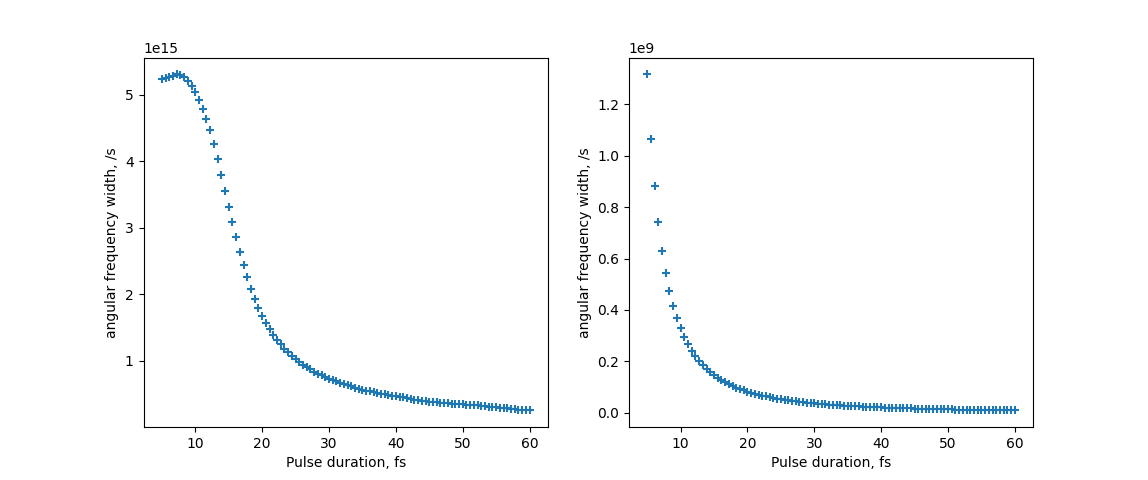
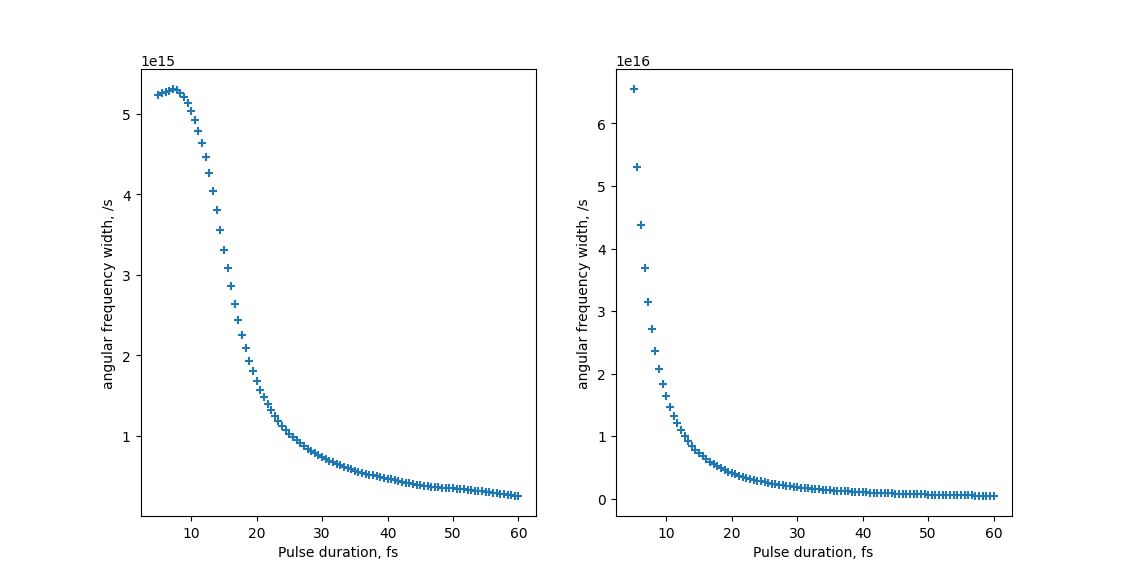
Added path to test files

diff --git a/BO/tests/test_gradient_and_ramp.py b/BO/tests/test_gradient_and_ramp.py
@@ -1,10 +1,3 @@
-# -*- coding: utf-8 -*-
-"""
-Created on Thu Jan 27 21:53:02 2022
-
-@author: iammo
-"""
-
 #imports
 import numpy as np
 from bayes_opt import BayesianOptimization
@@ -12,14 +5,17 @@ import matplotlib.pyplot as plt
 
 #now import the code form the other files
 import sys
-sys.path.append('D:\\MSci\\GitHub Code\\Optimising-Field-Synthesiser\\BO\\')
-sys.path.append('D:\\MSci\\GitHub Code\\Optimising-Field-Synthesiser\\synth_sim\\')
+#sys.path.append('C:\\Users\\ML\\OneDrive - Imperial College London\\MSci_Project\\code\\Synth\\Optimising-Field-Synthesiser\\BO\\')
+#sys.path.append('C:\\Users\\ML\\OneDrive - Imperial College London\\MSci_Project\\code\\Synth\\Optimising-Field-Synthesiser\\BO\\synthesiser_simulation\\')
+sys.path.append('C:\\Users\\iammo\\Documents\\Optimising-Field-Synthesiser\\BO\\')
+sys.path.append('C:\\Users\\iammo\\Documents\\Optimising-Field-Synthesiser\\BO\\synthesiser_simulation\\')
+
 from subtargetfunctions import *
 from field_synth_class import *
 from bossfunction import *
 #from ErrorCorrectionFunction import * #out of date functions
 from ErrorCorrectionFunction_integrate import *
-#%%
+
 Field1=Wavepacket(t0=0.0, wavel=400.0, fwhm=10.0, amp=1.0, CEP=0.0)
 Field2=Wavepacket(t0=0.0, wavel=700.0, fwhm=20.0, amp=1.0, CEP=0.0)
 Field3=Wavepacket(t0=0.0, wavel=1000.0, fwhm=30.0, amp=1.0, CEP=0.0)
@@ -31,7 +27,7 @@ pulses=[Field1,Field2, Field3, Field4, Field5,Field6]
 delays=(2,4,6,8,10)
 
 Synth=Synthesiser(pulses,delays)
-#%%
+
 params=["wavel1","wavel2","wavel3","wavel4","wavel5","wavel6"]
 #        "fwhm1", "fwhm2", "fwhm3", "fwhm4", "fwhm5", "fwhm6",
 #        "CEP1", "CEP2", "CEP3", "CEP4", "CEP5", "CEP6", 
@@ -39,7 +35,7 @@ params=["wavel1","wavel2","wavel3","wavel4","wavel5","wavel6"]
 t=np.linspace(-20,60,2000)
 
 BO(params, Synth, slopeGradient, n_iter=1,init_points=1, t=t)
-#%%
+"""
 delays=(0,0,0,0,0)
 
 Synth=Synthesiser(pulses,delays)
@@ -62,3 +58,4 @@ for i in t:
         E_goal=np.append(E_goal,[0])
 
 BO(params, Synth, errorCorrectionAdvanced_int, n_iter=100,init_points=10, t=t, goal_field=E_goal, window=None)
+"""

diff --git a/BO/examples/optimise_simulation.py b/BO/examples/optimise_simulation.py
@@ -9,8 +9,10 @@ import matplotlib.pyplot as plt
 
 #now import the code form the other files
 import sys
-sys.path.append('C:\\Users\\ML\\OneDrive - Imperial College London\\MSci_Project\\code\\Synth\\Optimising-Field-Synthesiser\\BO\\')
-sys.path.append('C:\\Users\\ML\\OneDrive - Imperial College London\\MSci_Project\\code\\Synth\\Optimising-Field-Synthesiser\\synth_sim\\')
+#sys.path.append('C:\\Users\\ML\\OneDrive - Imperial College London\\MSci_Project\\code\\Synth\\Optimising-Field-Synthesiser\\BO\\')
+#sys.path.append('C:\\Users\\ML\\OneDrive - Imperial College London\\MSci_Project\\code\\Synth\\Optimising-Field-Synthesiser\\BO\\synthesiser_simulation\\')
+sys.path.append('C:\\Users\\iammo\\Documents\\Optimising-Field-Synthesiser\\BO\\')
+sys.path.append('C:\\Users\\iammo\\Documents\\Optimising-Field-Synthesiser\\BO\\synthesiser_simulation\\')
 from subtargetfunctions import *
 from field_synth_class import *
 from bossfunction import *
@@ -84,4 +86,4 @@ for i in t:
 #BO(params, Synth, errorCorrection_int, goal_field=E_goal, n_iter=100,init_points=200, t=t)
 #print(errorCorrection_int(t,E_goal,E_goal))
 
-BO(params, Synth, errorCorrection_Advanced, n_iter=50,init_points=50, t=t)
+BO(params, Synth, errorCorrectionAdvanced_int, n_iter=10,init_points=10, t=t)

diff --git a/BO/bossfunction.py b/BO/bossfunction.py
@@ -4,8 +4,10 @@ import matplotlib.pyplot as plt
 import statistics
 
 import sys
-sys.path.append('C:\\Users\\ML\\OneDrive - Imperial College London\\MSci_Project\\code\\Synth\\Optimising-Field-Synthesiser\\BO\\')
-sys.path.append('C:\\Users\\ML\\OneDrive - Imperial College London\\MSci_Project\\code\\Synth\\Optimising-Field-Synthesiser\\BO\\synthesiser_simulation\\')
+#sys.path.append('C:\\Users\\ML\\OneDrive - Imperial College London\\MSci_Project\\code\\Synth\\Optimising-Field-Synthesiser\\BO\\')
+#sys.path.append('C:\\Users\\ML\\OneDrive - Imperial College London\\MSci_Project\\code\\Synth\\Optimising-Field-Synthesiser\\BO\\synthesiser_simulation\\')
+sys.path.append('C:\\Users\\iammo\\Documents\\Optimising-Field-Synthesiser\\BO\\')
+sys.path.append('C:\\Users\\iammo\\Documents\\Optimising-Field-Synthesiser\\BO\\synthesiser_simulation\\')
 from subtargetfunctions import *
 from field_synth_class import *
 #from ErrorCorrectionFunction import *

diff --git a/BO/tests/test_bossfunction.py b/BO/tests/test_bossfunction.py
@@ -6,8 +6,10 @@ import matplotlib.pyplot as plt
 #now import the code form the other files
 
 import sys
-sys.path.append('C:\\Users\\ML\\OneDrive - Imperial College London\\MSci_Project\\code\\Synth\\Optimising-Field-Synthesiser\\BO\\')
-sys.path.append('C:\\Users\\ML\\OneDrive - Imperial College London\\MSci_Project\\code\\Synth\\Optimising-Field-Synthesiser\\BO\\synthesiser_simulation\\')
+#sys.path.append('C:\\Users\\ML\\OneDrive - Imperial College London\\MSci_Project\\code\\Synth\\Optimising-Field-Synthesiser\\BO\\')
+#sys.path.append('C:\\Users\\ML\\OneDrive - Imperial College London\\MSci_Project\\code\\Synth\\Optimising-Field-Synthesiser\\BO\\synthesiser_simulation\\')
+sys.path.append('C:\\Users\\iammo\\Documents\\Optimising-Field-Synthesiser\\BO\\')
+sys.path.append('C:\\Users\\iammo\\Documents\\Optimising-Field-Synthesiser\\BO\\synthesiser_simulation\\')
 
 from subtargetfunctions import *
 from bossfunction import *

diff --git a/HCF sim/Python/building datasets/parameters_vs_bandwidth/duration_vs_rms_width.py b/HCF sim/Python/building datasets/parameters_vs_bandwidth/duration_vs_rms_width.py
@@ -69,7 +69,7 @@ ax1.set_xlabel('Pulse duration, fs')
 
 theor_widths = []
 for i in range(len(τfwhms)):
-    theor_widths.append(theoretical_width(flength, pressure, λ0, τfwhms[i], energy))
+    theor_widths.append(theoretical_width(radius, flength, pressure, λ0, τfwhms[i], energy))
 ax2.scatter(τfwhms/10**(-15),theor_widths, marker="+")
 ax2.set_ylabel("angular frequency width, /s")
 ax2.set_xlabel('Pulse duration, fs')

diff --git a/HCF sim/Python/building datasets/parameters_vs_bandwidth/energy_vs_rms_width.py b/HCF sim/Python/building datasets/parameters_vs_bandwidth/energy_vs_rms_width.py
@@ -70,7 +70,7 @@ ax1.set_xlabel('Pulse energy, mJ')
 
 theor_widths = []
 for i in range(len(energies)):
-    theor_widths.append(theoretical_width(flength, pressure, λ0, τfwhm, energies[i]))
+    theor_widths.append(theoretical_width(radius, flength, pressure, λ0, τfwhm, energies[i]))
 ax2.scatter(energies*10**(3),theor_widths, marker="+")
 ax2.set_ylabel("angular frequency width, /s")
 ax2.set_xlabel('Pulse energy, mJ')
